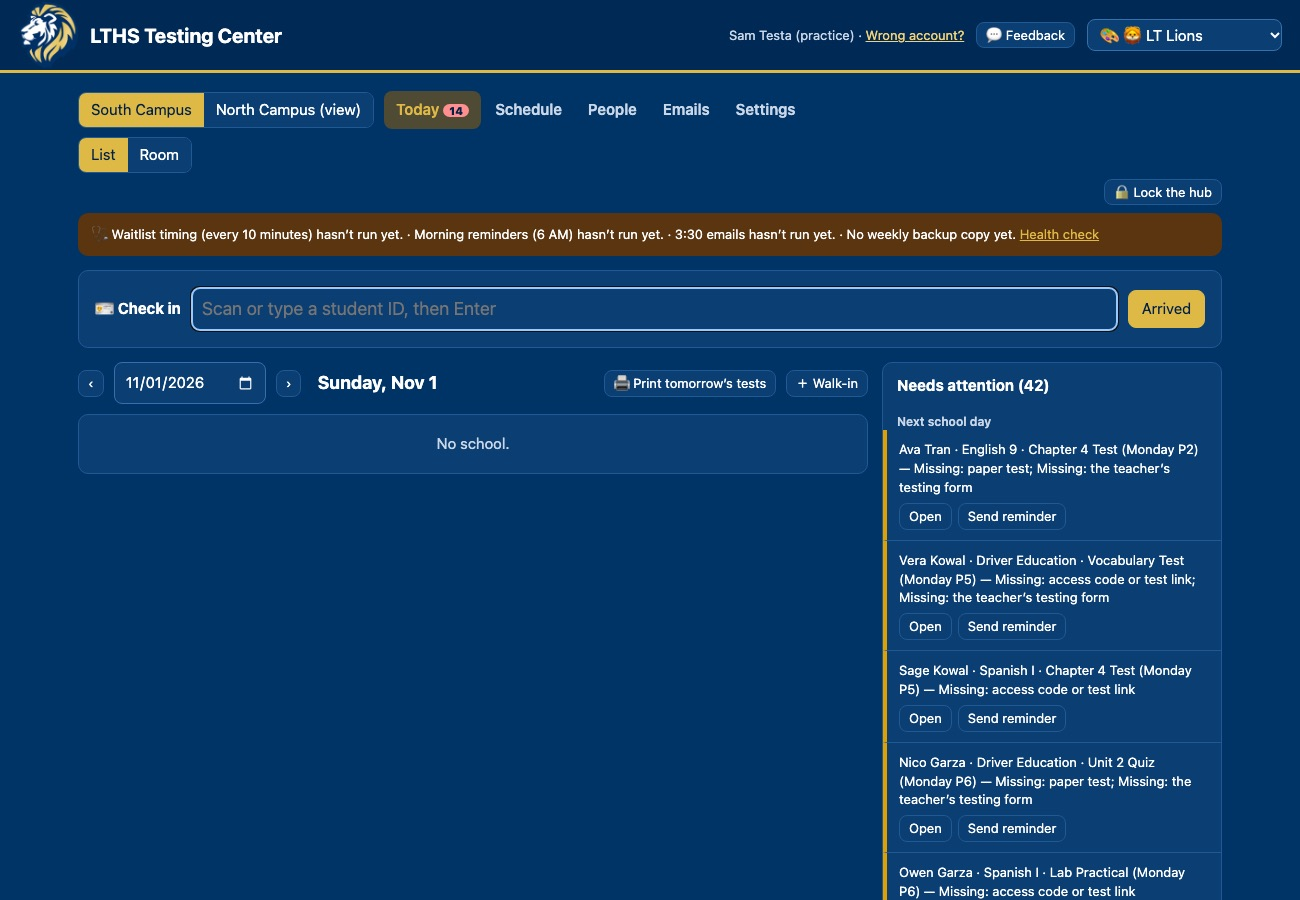
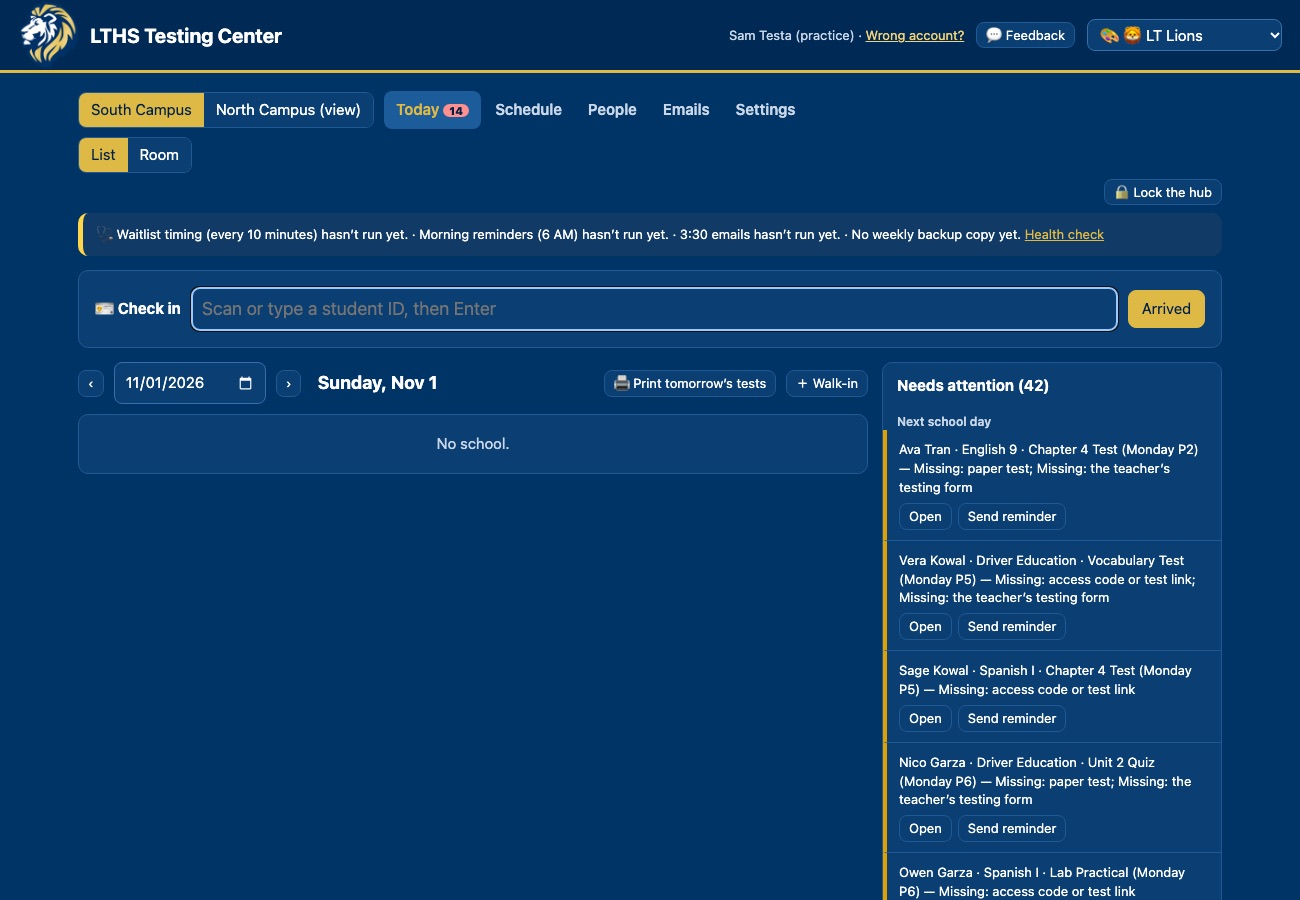
Testing Center 0.59: LT blue and bright yellow (no mustard) in the trial, demo and screenshots

Changed region(s): [[0.0615, 0.2178, 0.9538, 0.3111], [0.2769, 0.0933, 0.3692, 0.1556]]

diff --git a/testing-center/demo.html b/testing-center/demo.html
@@ -9,8 +9,9 @@
 /* color modes (🎨 at the top; the same set as the Hall Pass Kiosk and Resource Check-In; remembered on this device).
    LT Lions (the default since 0.41) is the school brand: LTHS blue #003366 as the page, gold #DEB946 for buttons; the lion is docs/brand/lt-lion.png.
    Meanings never change: --bad red = missing / no-show, --warn amber = check / arrived, --ok green = ready / done, --brand = testing, --info = waitlist and offers. */
-:root[data-look="lt"] { --bg: #003366; --card: #0b3f73; --ink: #ffffff; --mute: #c9d7e8; --line: #1f5a93; --line2: #3470aa; --soft2: #114a82; --brand: #deb946; --brand2: #4e4a33; --onbrand: #002147; --ok: #6ee7a0; --okbg: #14532d; --warn: #ffb36b; --warnbg: #5a3510; --bad: #ff8f8f; --badbg: #5b1d1d; --info: #c9b8ff; --infobg: #3b2a66; --toast: #ffffff; --toastink: #003366; color-scheme: dark; }
+:root[data-look="lt"] { --bg: #003366; --card: #0b3f73; --ink: #ffffff; --mute: #c9d7e8; --line: #1f5a93; --line2: #3470aa; --soft2: #114a82; --brand: #deb946; --brand2: #1d5c9b; --onbrand: #002147; --ok: #6ee7a0; --okbg: #14532d; --warn: #ffd54a; --warnbg: #123a66; --bad: #ff8f8f; --badbg: #5b1d1d; --info: #c9b8ff; --infobg: #3b2a66; --toast: #ffffff; --toastink: #003366; color-scheme: dark; }
 :root[data-look="lt"] .top { background: #002a55; border-bottom: 3px solid #deb946; } :root[data-look="lt"] a { color: #f0d27a; }
+:root[data-look="lt"] .banner.warn { border-left: 5px solid #ffd54a; } :root[data-look="lt"] .banner.info { border-left: 5px solid #8fc1ff; }          /* 0.59: no mustard: highlights are LT blue, warnings bright yellow on blue */
 :root[data-look="calmroom"] { --bg: #f7f2ea; --card: #fffdf9; --ink: #2f2a26; --mute: #6f655b; --line: #e8dfd2; --line2: #d5c8b6; --soft2: #f3ece2; --brand: #2f6f73; --brand2: #dcecec; --onbrand: #fff; --ok: #2e7d5b; --okbg: #dff1e7; --warn: #9a6a12; --warnbg: #fbefcf; --bad: #c0392b; --badbg: #f9e0dd; --info: #6a4c9c; --infobg: #ece4f6; --toast: #2f2a26; --toastink: #fff; }
 :root[data-look="night"] { --bg: #0f172a; --card: #1e293b; --ink: #f8fafc; --mute: #cbd5e1; --line: #334155; --line2: #475569; --soft2: #273449; --brand: #93c5fd; --brand2: #1e3a5f; --onbrand: #0f172a; --ok: #4ade80; --okbg: #14532d; --warn: #fbbf24; --warnbg: #4a3410; --bad: #f87171; --badbg: #5b1d1d; --info: #c4b5fd; --infobg: #3b2a66; --toast: #f8fafc; --toastink: #0f172a; color-scheme: dark; }
 :root[data-look="contrast"] { --bg: #ffffff; --card: #ffffff; --ink: #000000; --mute: #262626; --line: #000000; --line2: #000000; --soft2: #f2f2f2; --brand: #0033cc; --brand2: #dde4ff; --onbrand: #fff; --ok: #006b2d; --okbg: #c8f5d6; --warn: #7a5200; --warnbg: #ffe08a; --bad: #b00000; --badbg: #ffd0cc; --info: #4b1fa8; --infobg: #e6dcff; --toast: #000; --toastink: #fff; }
@@ -315,7 +316,7 @@ body.withside .wrap { margin-right: 240px; }
 // LTHS Testing Center: the server core (tabs, settings, who is signed in, dates, setup, the web page).
 // Other server files: TestingRooms.gs (testing rooms in support classes), Health.gs (health check, archive, weekly backup, Errors tab), TeacherNow.gs (teacher schedules, where is the teacher, the next-period alert), IC.gs (the Infinite Campus import from the IC_Raw_Import tab), Room.gs (the room's numbered desks), Roster.gs (roster import), Booking.gs (seats, appointments, waitlist), Tests.gs (tests, resources,
 // readiness, emails), Dashboard.gs (the coordinator dashboard). Read CHANGES.md first.
-var VERSION = '0.58';
+var VERSION = '0.59';
 var CAMPUSES = ['S', 'N'];          // S = South Campus (grades 9-10), N = North Campus (grades 11-12)
 
 // ---------- the tabs (each one is a table; the header row names the columns; code reads columns by header, not position)
@@ -3501,10 +3502,12 @@ function icCols_(headers) {          // header name → our key; plus missing / 
   headers.forEach(function (h, i) {          // case managers are Infinite Campus flags whose label is the staff member's name
     if (idx.cmgr === undefined && /case\s*manag|flag/i.test(h) && !IC_COLS.some(function (c) { return hnorm_(c[1]) === hnorm_(h); })) { idx.cmgr = i; extra.push('(' + h + ' = case manager)'); }
   });
+  var planLabels = [];          // 0.59: IEP / 504 columns by any name ("Section 504", "504 Plan", "Special Ed Status", "IEP", "SPED"…): keys plan0, plan1…, read with their header
+  headers.forEach(function (h, i) { if (i !== idx.cmgr && planLabels.length < 5 && /\b504\b|\biep\b|special\s*ed|\bsped\b|learning\s*plan|disabilit/i.test(h)) { idx['plan' + planLabels.length] = i; planLabels.push(h); extra.push('(' + h + ' = IEP / 504)'); } });
   var used = {}; Object.keys(idx).forEach(function (k) { used[idx[k]] = 1; });
-  headers.forEach(function (h, i) { if (h && !used[i] && !/counsel|case\s*manag|flag/i.test(h)) extra.push(h); });
+  headers.forEach(function (h, i) { if (h && !used[i] && !/counsel|case\s*manag|flag|\b504\b|\biep\b|special\s*ed|\bsped\b|learning\s*plan|disabilit/i.test(h)) extra.push(h); });
   var ambiguous = dup.filter(function (h) { return IC_COLS.some(function (c) { return hnorm_(c[1]) === hnorm_(h); }); });
-  return { idx: idx, missing: missing, dupes: dup, ambiguous: ambiguous, extra: extra };
+  return { idx: idx, missing: missing, dupes: dup, ambiguous: ambiguous, extra: extra, planLabels: planLabels };
 }
 // Row 1 of IC_Raw_Import (the column names) stays frozen: Google's Data › Sort sheet then leaves it on top. A new upload with
 // "Replace current sheet" can unfreeze it, so the app freezes it again whenever it reads the tab.
@@ -3562,7 +3565,7 @@ function api_icStart() {
     if (hr === 0 && best > 0) icFreeze_();
     var headers = top[hr].map(str_), c = icCols_(headers);
     n = sh.getLastRow() - (hr + 1); j.hrow = hr + 1;
-    j.total = n; j.width = wcol; j.headers = headers.length; j.chunks = Math.ceil(n / IC_CHUNK); j.idx = c.idx; j.dupes = c.dupes; j.extra = c.extra;
+    j.total = n; j.width = wcol; j.headers = headers.length; j.chunks = Math.ceil(n / IC_CHUNK); j.idx = c.idx; j.planLabels = c.planLabels; j.dupes = c.dupes; j.extra = c.extra;
     // never echo the row when it isn't column names: it would be a student's information (and the job is saved in the sheet's properties)
     if (best < 1) return icFail_(j, 'The export has no column-names row: the first row is already a student, so the app can’t tell which column is which. Export the report again with its column names (the first row should say student.lastName, student.firstName, student.studentNumber…), or paste that row above the data.');
     if (c.missing.length) return icFail_(j, 'These required columns are missing from ' + IC_TAB + ': ' + c.missing.join(', ') + '. The column names the app found (row ' + j.hrow + '): ' + headers.filter(function (h) { return /[a-z]/i.test(h) && !/\d{4,}|@/.test(h); }).slice(0, 30).join(' · ') + '. Check the Infinite Campus report.');
@@ -3642,6 +3645,7 @@ function icModel_(j) {
       if (!campus) { problems.push({ line: line, what: 'Can’t tell the campus (no North/South in the calendar name and no grade)' }); return; }
       var s = stu[sid] || (stu[sid] = { sid: sid, first: g('first'), last: g('last'), alias: g('alias'), grade: g('grade').replace(/\D/g, ''), campus: campus, active: g('active'), calendar: g('calendar'), syear: g('syear'), cname: g('cname'), cemail: low_(g('cemail')), cmgrs: [] });
       if (g('cmgr') && s.cmgrs && s.cmgrs.indexOf(g('cmgr')) < 0) s.cmgrs.push(g('cmgr'));          // one flag per row; a student can have several
+      (j.planLabels || []).forEach(function (h, pi) { var v = String(g('plan' + pi) || '').trim(); if (!v || /^(n|no|false|0|none|inactive|exited|-)$/i.test(v)) return; var tag = h + ': ' + v; if (s.cmgrs.indexOf(tag) < 0) s.cmgrs.push(tag); });          // "Section 504: Y" → 504, "Special Ed Status: Active" → IEP
       // not a class (the student is still kept): clubs/activities (code starts with Z), no room, or a period end that isn't a number
       var code = (g('cnum') + ' ' + g('cid')).toUpperCase().trim().split(/\s+/);
       if (zList.length && code.some(function (x) { return zList.some(function (z) { return x && x.indexOf(z) === 0; }); })) { c.notClass++; c.clubs++; return; }
@@ -3672,7 +3676,7 @@ function icModel_(j) {
   var cov = { campuses: [], grades: [] };
   Object.keys(stu).forEach(function (k) { var s = stu[k]; if (cov.campuses.indexOf(s.campus) < 0) cov.campuses.push(s.campus); if (s.grade && cov.grades.indexOf(s.grade) < 0) cov.grades.push(s.grade); });
   cov.campuses.sort(); cov.grades.sort(function (a, b) { return a - b; });
-  return { stu: stu, tch: tch, sec: sec, ros: ros, counts: c, problems: problems, coverage: cov, hasCmgr: !!(j.idx && j.idx.cmgr !== undefined) };
+  return { stu: stu, tch: tch, sec: sec, ros: ros, counts: c, problems: problems, coverage: cov, hasCmgr: !!(j.idx && (j.idx.cmgr !== undefined || (j.planLabels || []).length)) };
 }
 // A period cell → the period numbers in it, as text, in order: "8" → [8]; "8 · 8 · 7" or "8, 7" or "3;4" → [8, 7]; "Per 05" → [5].
 // Never arithmetic or decimals ("8.7" is not 8.7 — it's unclear); a date or anything without a clear 0–15 period is unclear ([]).

diff --git a/testing-center/trial.html b/testing-center/trial.html
@@ -9,8 +9,9 @@
 /* color modes (🎨 at the top; the same set as the Hall Pass Kiosk and Resource Check-In; remembered on this device).
    LT Lions (the default since 0.41) is the school brand: LTHS blue #003366 as the page, gold #DEB946 for buttons; the lion is docs/brand/lt-lion.png.
    Meanings never change: --bad red = missing / no-show, --warn amber = check / arrived, --ok green = ready / done, --brand = testing, --info = waitlist and offers. */
-:root[data-look="lt"] { --bg: #003366; --card: #0b3f73; --ink: #ffffff; --mute: #c9d7e8; --line: #1f5a93; --line2: #3470aa; --soft2: #114a82; --brand: #deb946; --brand2: #4e4a33; --onbrand: #002147; --ok: #6ee7a0; --okbg: #14532d; --warn: #ffb36b; --warnbg: #5a3510; --bad: #ff8f8f; --badbg: #5b1d1d; --info: #c9b8ff; --infobg: #3b2a66; --toast: #ffffff; --toastink: #003366; color-scheme: dark; }
+:root[data-look="lt"] { --bg: #003366; --card: #0b3f73; --ink: #ffffff; --mute: #c9d7e8; --line: #1f5a93; --line2: #3470aa; --soft2: #114a82; --brand: #deb946; --brand2: #1d5c9b; --onbrand: #002147; --ok: #6ee7a0; --okbg: #14532d; --warn: #ffd54a; --warnbg: #123a66; --bad: #ff8f8f; --badbg: #5b1d1d; --info: #c9b8ff; --infobg: #3b2a66; --toast: #ffffff; --toastink: #003366; color-scheme: dark; }
 :root[data-look="lt"] .top { background: #002a55; border-bottom: 3px solid #deb946; } :root[data-look="lt"] a { color: #f0d27a; }
+:root[data-look="lt"] .banner.warn { border-left: 5px solid #ffd54a; } :root[data-look="lt"] .banner.info { border-left: 5px solid #8fc1ff; }          /* 0.59: no mustard: highlights are LT blue, warnings bright yellow on blue */
 :root[data-look="calmroom"] { --bg: #f7f2ea; --card: #fffdf9; --ink: #2f2a26; --mute: #6f655b; --line: #e8dfd2; --line2: #d5c8b6; --soft2: #f3ece2; --brand: #2f6f73; --brand2: #dcecec; --onbrand: #fff; --ok: #2e7d5b; --okbg: #dff1e7; --warn: #9a6a12; --warnbg: #fbefcf; --bad: #c0392b; --badbg: #f9e0dd; --info: #6a4c9c; --infobg: #ece4f6; --toast: #2f2a26; --toastink: #fff; }
 :root[data-look="night"] { --bg: #0f172a; --card: #1e293b; --ink: #f8fafc; --mute: #cbd5e1; --line: #334155; --line2: #475569; --soft2: #273449; --brand: #93c5fd; --brand2: #1e3a5f; --onbrand: #0f172a; --ok: #4ade80; --okbg: #14532d; --warn: #fbbf24; --warnbg: #4a3410; --bad: #f87171; --badbg: #5b1d1d; --info: #c4b5fd; --infobg: #3b2a66; --toast: #f8fafc; --toastink: #0f172a; color-scheme: dark; }
 :root[data-look="contrast"] { --bg: #ffffff; --card: #ffffff; --ink: #000000; --mute: #262626; --line: #000000; --line2: #000000; --soft2: #f2f2f2; --brand: #0033cc; --brand2: #dde4ff; --onbrand: #fff; --ok: #006b2d; --okbg: #c8f5d6; --warn: #7a5200; --warnbg: #ffe08a; --bad: #b00000; --badbg: #ffd0cc; --info: #4b1fa8; --infobg: #e6dcff; --toast: #000; --toastink: #fff; }
@@ -315,7 +316,7 @@ body.withside .wrap { margin-right: 240px; }
 // LTHS Testing Center: the server core (tabs, settings, who is signed in, dates, setup, the web page).
 // Other server files: TestingRooms.gs (testing rooms in support classes), Health.gs (health check, archive, weekly backup, Errors tab), TeacherNow.gs (teacher schedules, where is the teacher, the next-period alert), IC.gs (the Infinite Campus import from the IC_Raw_Import tab), Room.gs (the room's numbered desks), Roster.gs (roster import), Booking.gs (seats, appointments, waitlist), Tests.gs (tests, resources,
 // readiness, emails), Dashboard.gs (the coordinator dashboard). Read CHANGES.md first.
-var VERSION = '0.58';
+var VERSION = '0.59';
 var CAMPUSES = ['S', 'N'];          // S = South Campus (grades 9-10), N = North Campus (grades 11-12)
 
 // ---------- the tabs (each one is a table; the header row names the columns; code reads columns by header, not position)
@@ -3501,10 +3502,12 @@ function icCols_(headers) {          // header name → our key; plus missing / 
   headers.forEach(function (h, i) {          // case managers are Infinite Campus flags whose label is the staff member's name
     if (idx.cmgr === undefined && /case\s*manag|flag/i.test(h) && !IC_COLS.some(function (c) { return hnorm_(c[1]) === hnorm_(h); })) { idx.cmgr = i; extra.push('(' + h + ' = case manager)'); }
   });
+  var planLabels = [];          // 0.59: IEP / 504 columns by any name ("Section 504", "504 Plan", "Special Ed Status", "IEP", "SPED"…): keys plan0, plan1…, read with their header
+  headers.forEach(function (h, i) { if (i !== idx.cmgr && planLabels.length < 5 && /\b504\b|\biep\b|special\s*ed|\bsped\b|learning\s*plan|disabilit/i.test(h)) { idx['plan' + planLabels.length] = i; planLabels.push(h); extra.push('(' + h + ' = IEP / 504)'); } });
   var used = {}; Object.keys(idx).forEach(function (k) { used[idx[k]] = 1; });
-  headers.forEach(function (h, i) { if (h && !used[i] && !/counsel|case\s*manag|flag/i.test(h)) extra.push(h); });
+  headers.forEach(function (h, i) { if (h && !used[i] && !/counsel|case\s*manag|flag|\b504\b|\biep\b|special\s*ed|\bsped\b|learning\s*plan|disabilit/i.test(h)) extra.push(h); });
   var ambiguous = dup.filter(function (h) { return IC_COLS.some(function (c) { return hnorm_(c[1]) === hnorm_(h); }); });
-  return { idx: idx, missing: missing, dupes: dup, ambiguous: ambiguous, extra: extra };
+  return { idx: idx, missing: missing, dupes: dup, ambiguous: ambiguous, extra: extra, planLabels: planLabels };
 }
 // Row 1 of IC_Raw_Import (the column names) stays frozen: Google's Data › Sort sheet then leaves it on top. A new upload with
 // "Replace current sheet" can unfreeze it, so the app freezes it again whenever it reads the tab.
@@ -3562,7 +3565,7 @@ function api_icStart() {
     if (hr === 0 && best > 0) icFreeze_();
     var headers = top[hr].map(str_), c = icCols_(headers);
     n = sh.getLastRow() - (hr + 1); j.hrow = hr + 1;
-    j.total = n; j.width = wcol; j.headers = headers.length; j.chunks = Math.ceil(n / IC_CHUNK); j.idx = c.idx; j.dupes = c.dupes; j.extra = c.extra;
+    j.total = n; j.width = wcol; j.headers = headers.length; j.chunks = Math.ceil(n / IC_CHUNK); j.idx = c.idx; j.planLabels = c.planLabels; j.dupes = c.dupes; j.extra = c.extra;
     // never echo the row when it isn't column names: it would be a student's information (and the job is saved in the sheet's properties)
     if (best < 1) return icFail_(j, 'The export has no column-names row: the first row is already a student, so the app can’t tell which column is which. Export the report again with its column names (the first row should say student.lastName, student.firstName, student.studentNumber…), or paste that row above the data.');
     if (c.missing.length) return icFail_(j, 'These required columns are missing from ' + IC_TAB + ': ' + c.missing.join(', ') + '. The column names the app found (row ' + j.hrow + '): ' + headers.filter(function (h) { return /[a-z]/i.test(h) && !/\d{4,}|@/.test(h); }).slice(0, 30).join(' · ') + '. Check the Infinite Campus report.');
@@ -3642,6 +3645,7 @@ function icModel_(j) {
       if (!campus) { problems.push({ line: line, what: 'Can’t tell the campus (no North/South in the calendar name and no grade)' }); return; }
       var s = stu[sid] || (stu[sid] = { sid: sid, first: g('first'), last: g('last'), alias: g('alias'), grade: g('grade').replace(/\D/g, ''), campus: campus, active: g('active'), calendar: g('calendar'), syear: g('syear'), cname: g('cname'), cemail: low_(g('cemail')), cmgrs: [] });
       if (g('cmgr') && s.cmgrs && s.cmgrs.indexOf(g('cmgr')) < 0) s.cmgrs.push(g('cmgr'));          // one flag per row; a student can have several
+      (j.planLabels || []).forEach(function (h, pi) { var v = String(g('plan' + pi) || '').trim(); if (!v || /^(n|no|false|0|none|inactive|exited|-)$/i.test(v)) return; var tag = h + ': ' + v; if (s.cmgrs.indexOf(tag) < 0) s.cmgrs.push(tag); });          // "Section 504: Y" → 504, "Special Ed Status: Active" → IEP
       // not a class (the student is still kept): clubs/activities (code starts with Z), no room, or a period end that isn't a number
       var code = (g('cnum') + ' ' + g('cid')).toUpperCase().trim().split(/\s+/);
       if (zList.length && code.some(function (x) { return zList.some(function (z) { return x && x.indexOf(z) === 0; }); })) { c.notClass++; c.clubs++; return; }
@@ -3672,7 +3676,7 @@ function icModel_(j) {
   var cov = { campuses: [], grades: [] };
   Object.keys(stu).forEach(function (k) { var s = stu[k]; if (cov.campuses.indexOf(s.campus) < 0) cov.campuses.push(s.campus); if (s.grade && cov.grades.indexOf(s.grade) < 0) cov.grades.push(s.grade); });
   cov.campuses.sort(); cov.grades.sort(function (a, b) { return a - b; });
-  return { stu: stu, tch: tch, sec: sec, ros: ros, counts: c, problems: problems, coverage: cov, hasCmgr: !!(j.idx && j.idx.cmgr !== undefined) };
+  return { stu: stu, tch: tch, sec: sec, ros: ros, counts: c, problems: problems, coverage: cov, hasCmgr: !!(j.idx && (j.idx.cmgr !== undefined || (j.planLabels || []).length)) };
 }
 // A period cell → the period numbers in it, as text, in order: "8" → [8]; "8 · 8 · 7" or "8, 7" or "3;4" → [8, 7]; "Per 05" → [5].
 // Never arithmetic or decimals ("8.7" is not 8.7 — it's unclear); a date or anything without a clear 0–15 period is unclear ([]).
